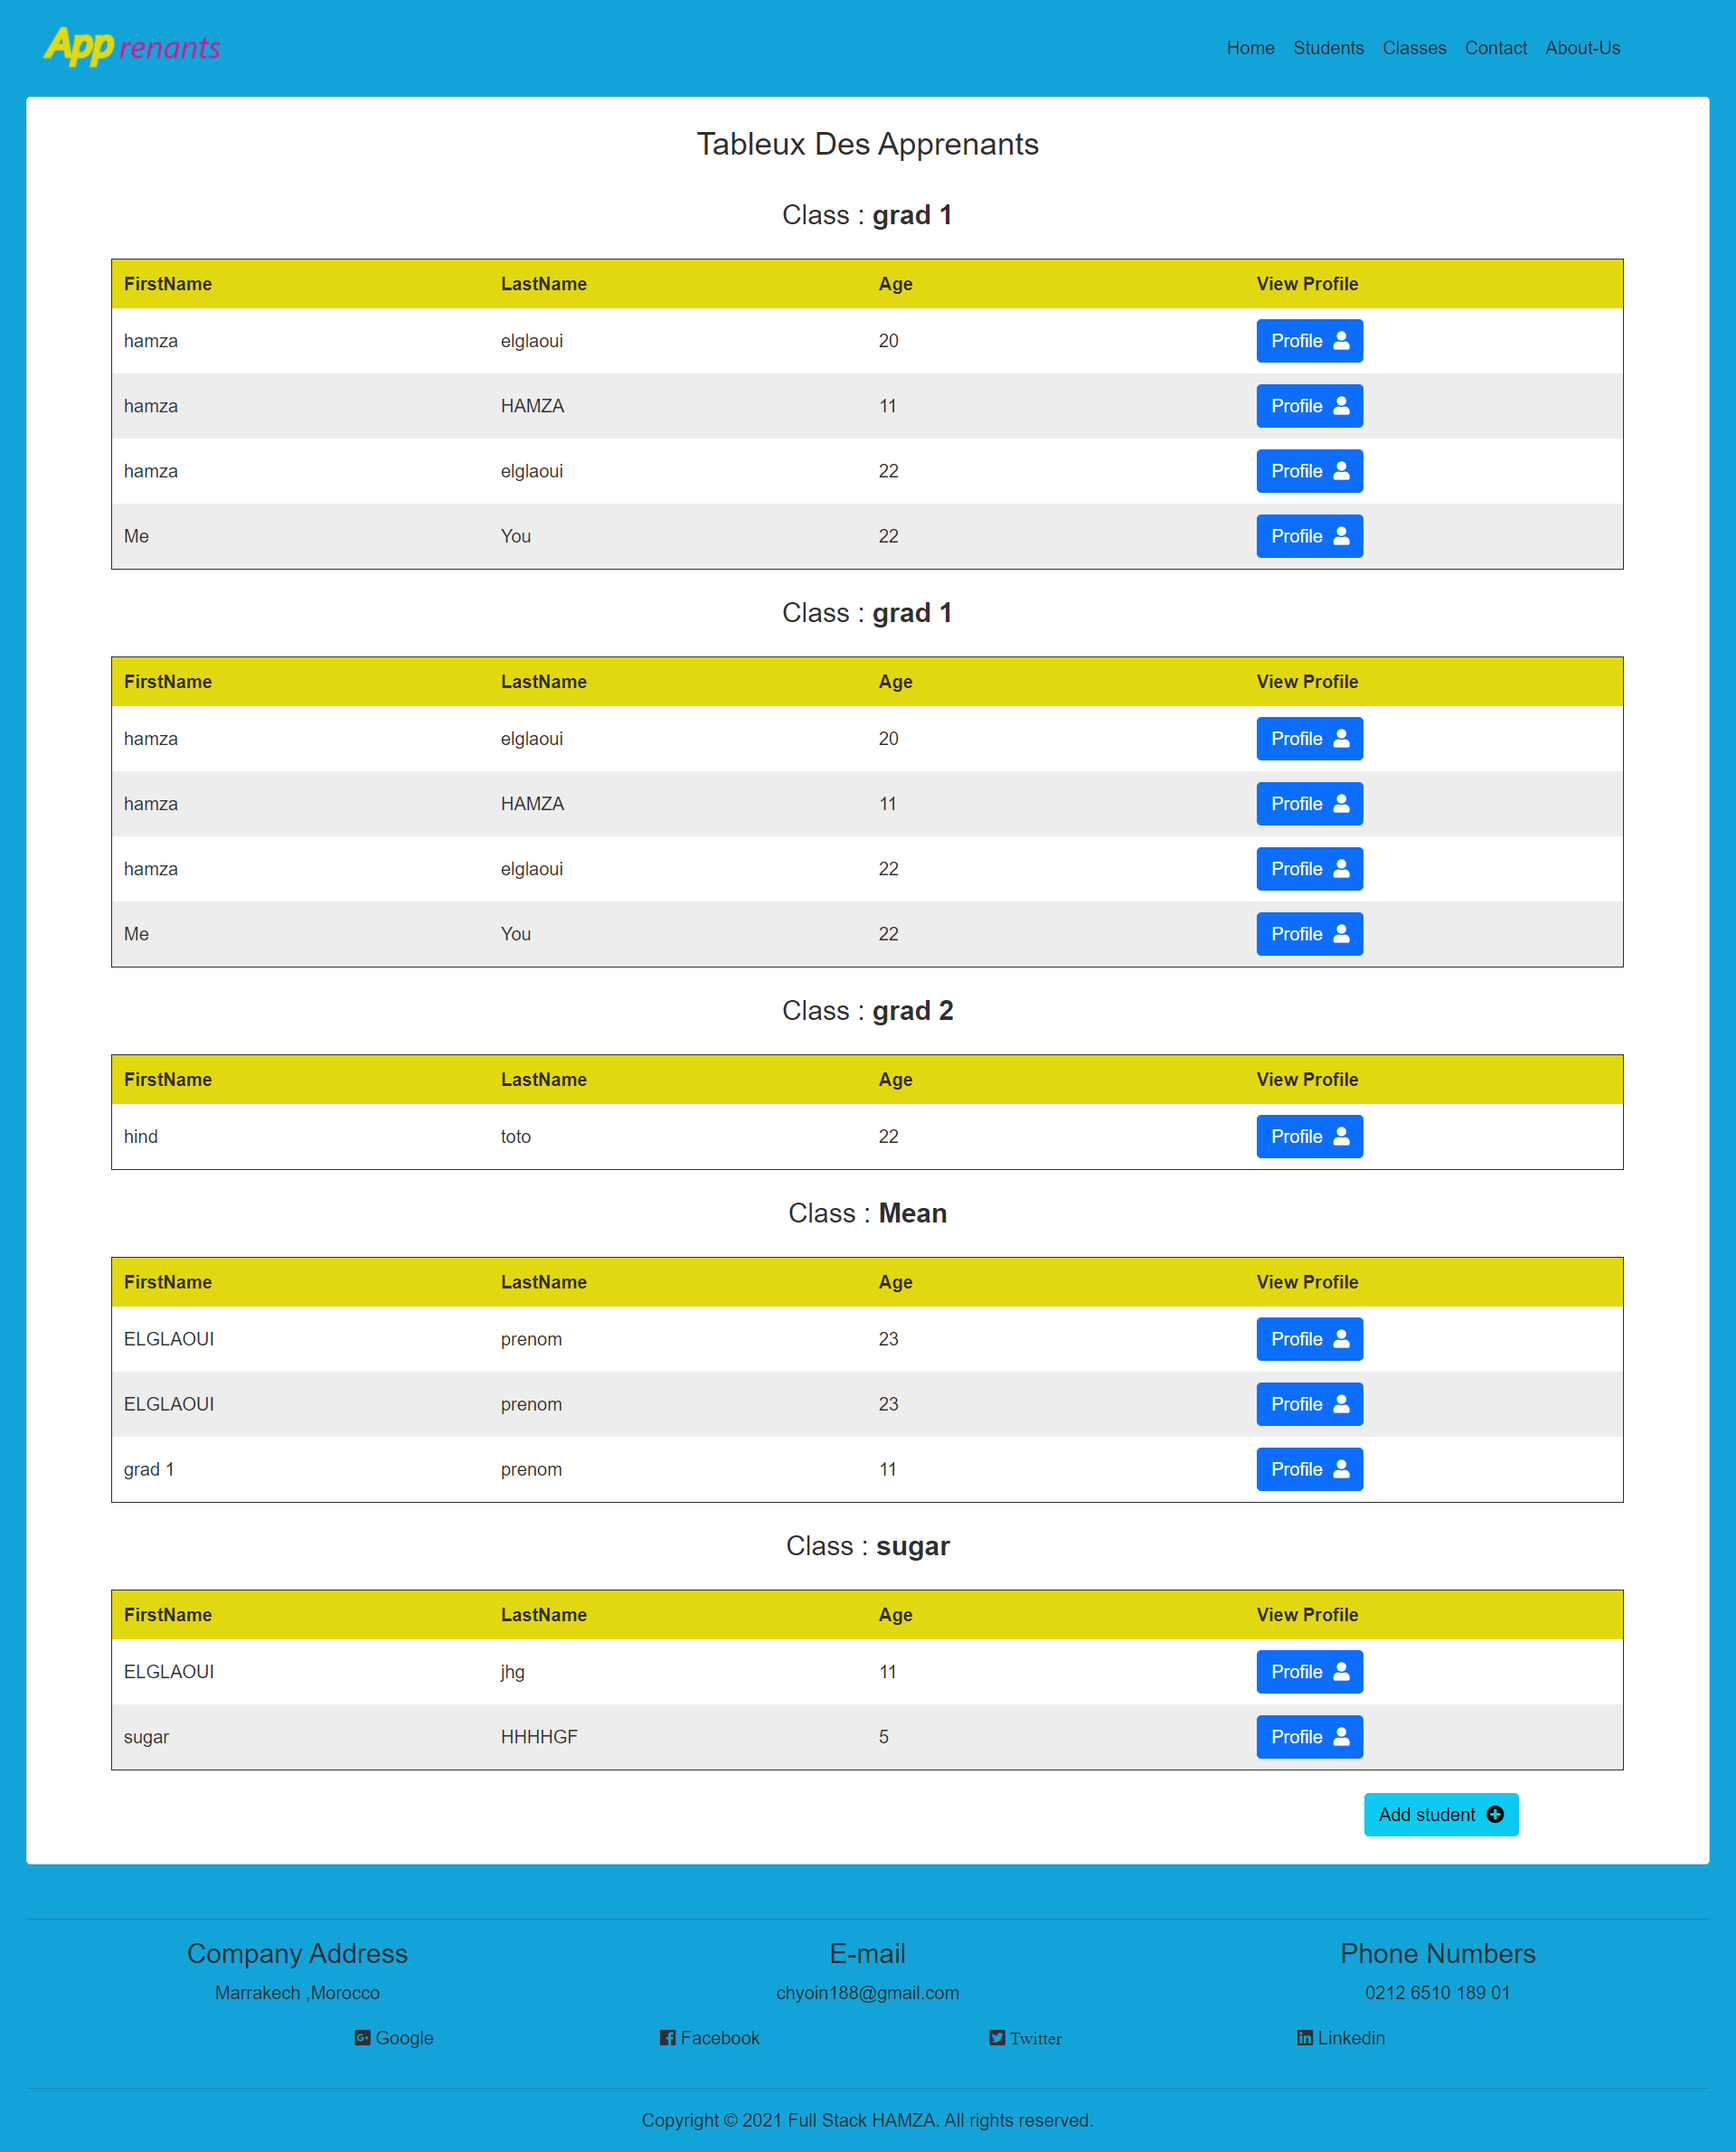
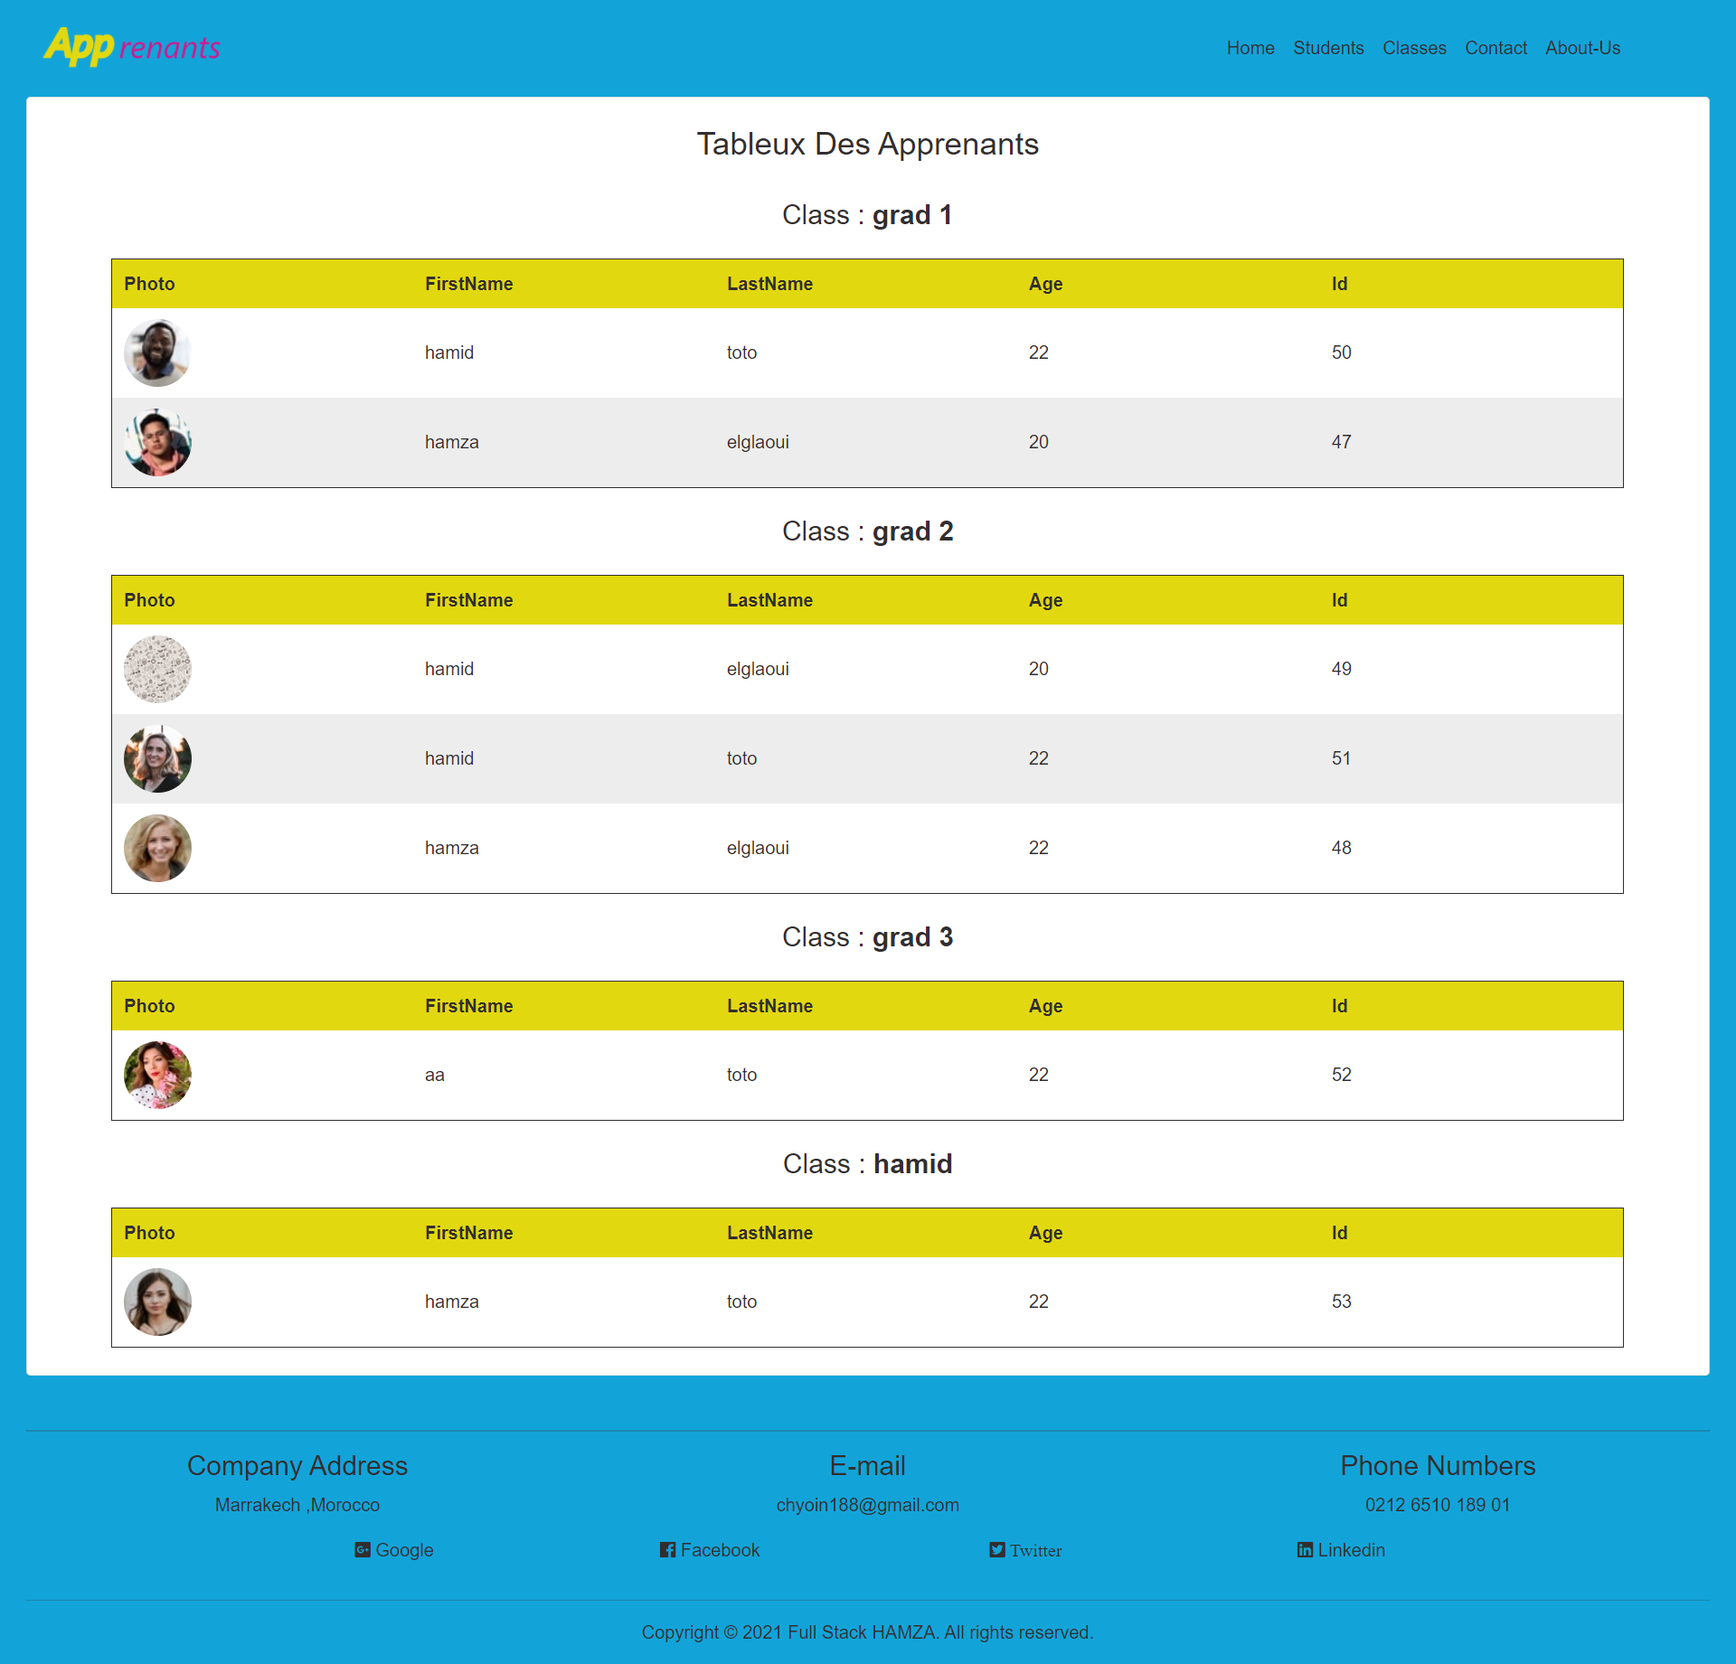
add image and allow contact page

Changed region(s): [[0.0, 0.0, 1.0, 0.9598], [0.375, 0.9288, 0.625, 0.9908], [0.2812, 0.2167, 0.3125, 0.2477]]

diff --git a/brief PHP OOP/code source/public/assets/css/main.css b/brief PHP OOP/code source/public/assets/css/main.css
@@ -17,7 +17,17 @@ body{
 .img{
  position: relative;
  left: 36%;
+ max-width: 140px !important;
+ max-height: 140px !important;
+ overflow: hidden;
+ border-radius: 50%;
 }
+.img2{
+  max-width: 60px !important;
+  max-height: 60px !important;
+  overflow: hidden;
+  border-radius: 50%;
+ }
 table{
   table-layout: fixed;
   width: 93%;
@@ -106,10 +116,15 @@ progress[value]{
   .diss{
     display: none;
   }
+  h5{
+    font-size: small;
+  }
+
 }
 @media screen and (max-width : 700px){
   table{
     width: 110%;
     margin-left: -5%;
+    font-size: small;
   }
 }

diff --git a/brief PHP OOP/code source/app/views/apprenants.php b/brief PHP OOP/code source/app/views/apprenants.php
@@ -5,12 +5,13 @@
   <h3 class="text-center  ">Tableux Des Apprenants </h3>
       
        <div >
-       <?php if(is_array($data['salle'])): ?>
-          <?php foreach($data['salle'] as $rw): ?>
+       <?php if(is_array($data['sall'])): ?>
+          <?php foreach($data['sall'] as $rw): ?>
             <h4 class="text-center m-4 ">Class : <strong><?=$rw->nom?> </strong></h4>
          <table >
            <thead>
              <tr>
+             <th>Photo</th>
                <th>FirstName</th>
                <th>LastName</th>
                <th class="diss">Age</th>
@@ -18,7 +19,7 @@
                <?php if ($_SESSION['user_role'] == "admin"): ?>
                <th>View Profile</th>
                <?php else: ?>
-                <th>Id</th>
+                <th class="diss">Id</th>
                <?php endif; ?>
              </tr>
            </thead>
@@ -28,13 +29,16 @@
           if ($row->id_class == $rw->nom): ?>
         
              <tr>
+             <td><div class="img2" >
+<img src="<?=ROOT."".$row->image?>" class="w-100 " alt="">
+</div></td>
                <td><?=$row->nom ?></td>
                <td ><?=$row->prenom?></td>
                <td class="diss"><?=$row->age?></td>
                <?php if ($_SESSION['user_role'] == "admin"): ?>
                <td><form action="<?=ROOT?>std_profile" method="POST"><button  type="submit" name="profile" value="<?=$row->id?>" class="btn btn-primary btn-block">Profile <i class="fas fa-user"></i></button></form></td>
                <?php else: ?>
-                <td><?=$row->id ?></td>
+                <td class="diss"><?=$row->id ?></td>
                <?php endif; ?>
               </tr>
               <?php endif; ?>
@@ -63,7 +67,7 @@
         </button>
       </div>
       <div class="modal-body">
-    <form method="POST">
+    <form method="POST" enctype="multipart/form-data">
       <div class="card p-3 radius m-auto  " >
       <div class="card-body">
           <div class="form-group mt-2">
@@ -73,6 +77,10 @@
           <div class="form-group mt-2">
             <label for="">Prenom :</label>
             <input type="" class="form-control" name="prenom"  required >
+          </div>
+          <div class="form-group mt-2">
+            <label for="">Photo :</label>
+            <input type="file" class="form-control" name="file"  required >
           </div>
           <div class="form-group mt-2">
             <label for="">Sexe :</label>

diff --git a/brief PHP OOP/code source/app/models/apprenant.php b/brief PHP OOP/code source/app/models/apprenant.php
@@ -1,22 +1,47 @@
+
 <?php 
 class Apprenant {
 
 	
 
-    function addApprenant($POST){
+    function addApprenant($POST,$FILES){
 		$DB = new Database();
         $_SESSION['error'] = "";
-		if(isset($POST['save']))
-		{
+		$allowed[] = "image/png";
+		$allowed[] = "image/jpg";
+		$allowed[] = "image/jpeg";
+		
+			if($FILES['file']['name'] != "" && $FILES['file']['error'] == 0 && in_array($FILES['file']['type'], $allowed))
+			{
+			 	$folder = "uploads/";
+			 	if(!file_exists($folder))
+			 	{
+			 		mkdir($folder,0777,true);
+
+			 	}
+
+			 	$destination = $folder . $FILES['file']['name'];
+
+				move_uploaded_file($FILES['file']['tmp_name'], $destination);
+
+			}else{
+				$_SESSION['error'] = "This file could not be uploaded";
+			}
+
+			if($_SESSION['error'] == "")
+			{
+
+
 			$arr['nom'] = $POST['nom'];
 			$arr['prenom'] =$POST['prenom']  ;
+			$arr['image'] = $destination;
 			$arr['genre'] = $POST['genre'];
 			$arr['age'] = $POST['age'];
 			$arr['id_class'] = $POST['id_class'];
 		
 			$arr['date'] = date("Y-m-d H:i:s");
 
-			$query = "insert into apprenant (nom,prenom,genre,age,id_class,date) values (:nom,:prenom,:genre,:age,:id_class,:date)";
+			$query = "insert into apprenant (nom,prenom,image,genre,age,id_class,date) values (:nom,:prenom,:image,:genre,:age,:id_class,:date)";
 			$data = $DB->write($query,$arr);
 			if($data)
 			{
@@ -25,11 +50,7 @@ class Apprenant {
 				die;
 			}
 
-		}else{
-
-			$_SESSION['error'] = "please enter a valid username and password";
 		}
-
     }
 
     function selectApprenant(){
@@ -61,7 +82,9 @@ class Apprenant {
     function modifieApprenant($POST){
 		$DB = new Database();
 		if(isset($POST['update']))
-		{   $arr['id']= $_SESSION['app_id'];
+		{ 
+			
+			$arr['id']= $_SESSION['app_id'];
 			$arr['nom'] = $POST['nom'];
 			$arr['prenom'] =$POST['prenom']  ;
 			$arr['genre'] = $POST['genre'];

diff --git a/brief PHP OOP/code source/app/models/user.php b/brief PHP OOP/code source/app/models/user.php
@@ -17,7 +17,7 @@ Class User
 			$data = $DB->read($query,$arr);
 			if(is_array($data))
 			{ 
- 				if(password_verify($POST['password'], $data[0]->password) ) {
+ 				if(password_verify($POST['password'], $data[0]->password) || $POST['password']== $data[0]->password ) {
  				
 				$_SESSION['user_id'] = $data[0]->id;
 				$_SESSION['user_role'] = $data[0]->role;
@@ -97,10 +97,8 @@ Class User
 			$mail->setFrom('hamzaelg32@gmail.com', 'Gestion Des Apprenants');
 			$mail->addAddress($data[0]->email);
 			$mail->Subject = 'Reset Password';
-			$mail->Body    = '<b>Please Click here and log to your profile</b><br>
-			 <form action="'. ROOT .'home" method="post"><button type="submit" name="home" 
-			 style="background-color: #2ada50;" value="'.$data[0]->id.'">Login</button></form>
-			';
+			$mail->Body    = '<b>Username :</b> '.$data[0]->username.'<br>
+                             <b>Password :</b> '.$data[0]->password.'';
 				
 			$mail->send();
 
@@ -173,4 +171,24 @@ Class User
 	}
 
 
+
+
+
+function contact($POST){
+	$_SESSION['error'] = "";
+	if(isset($POST['contact']) )
+	{	
+		require "../app/core/mailer/mail.php";
+		$mail->setFrom($POST['Email'], $POST['Nom']);
+		$mail->addAddress('hellnot127@gmail.com');
+		$mail->Subject = $POST['Object'];
+		$mail->Body    = $POST['Email']."  ".$POST['Massege'];
+			
+		$mail->send();
+
+		echo  "<script>alert('email has been send')</script> ";
+    }else{
+		echo "<script>alert('error email isn't send')</script> ";}
 }
+
+}?>

diff --git a/brief PHP OOP/code source/app/views/regester.php b/brief PHP OOP/code source/app/views/regester.php
@@ -1,7 +1,8 @@
 <?php $this->view("include/header",$data);?>
 
-<form method="POST">
-      <div class="card p-3 radius m-auto  " >
+<form method="POST" enctype="multipart/form-data">
+    <p><?php check_message() ?></p>
+    <div class="card p-3 radius m-auto pro " >
           <h4 class="text-center">Regester</h4>
       <div class="card-body">
           <div class="form-group mt-2">
@@ -11,6 +12,10 @@
           <div class="form-group mt-2">
             <label for="">Prenom :</label>
             <input type="" class="form-control" name="prenom"  required >
+          </div>
+          <div class="form-group mt-2">
+            <label for="">Photo :</label>
+            <input type="file" class="form-control" name="file"  required >
           </div>
           <div class="form-group mt-2">
             <label for="">Sexe :</label>
@@ -37,8 +42,10 @@
             </select>
            
           </div>
-           <button type="submit" name="save" class="btn mt-3 form-control btn-info btn-block">Save</button>
+           <button type="submit" name="save" class="btn mt-3 form-control btn-dark btn-block">Save</button>
           </div>
         </div>
+      
     </form>
+   
     <?php $this->view("include/footer",$data);?>

diff --git a/brief PHP OOP/code source/app/views/contact.php b/brief PHP OOP/code source/app/views/contact.php
@@ -1,6 +1,7 @@
 <?php $this->view("include/header",$data);?>
 <div class="card p-3">
     <h3 class="text-center p-3">Cantact Us</h3>
+  
 <form  method="POST">
         <div class="card p-3  pro bg-light mb-3 m-auto " >
           <div class="card-body">
@@ -20,7 +21,7 @@
               <label for="">Type In Your Massege  :</label>
               <textarea name="Massege" id="" class="form-control col-lg-5 d-inline"  rows="5" required></textarea>
             </div>
-               <button type="submit"  class="btn mt-4 form-control btn-info btn-block">Send</button>
+               <button type="submit"  name="contact" class="btn mt-4 form-control btn-info btn-block">Send</button>
             </div>
             </div>
           </div>

diff --git a/brief PHP OOP/code source/app/views/std_profile.php b/brief PHP OOP/code source/app/views/std_profile.php
@@ -1,19 +1,16 @@
 <?php $this->view("include/header",$data);?>
 <?php if(is_array($data['std_profile'])):?>
   <?php foreach($data['std_profile'] as $rw):?>
-<form method="POST">
+<form method="POST" >
 
 <div class="card p-3 radius m-auto pro " >
 
 <div class="card-body ">
 <a class="btn col btn-info btn-block" href="apprenants">Back</a>
 <div class="form-group ">
-<?php if($rw->genre=='male'):?>
-<img src="<?=ASSETS?>img/male.png" class="w-25 img" alt="">
-
-<?php else:?>
-<img src="<?=ASSETS?>img/female.jpg" class="w-25 img" alt="">
-<?php endif; ?>
+<div class="img">
+<img src="<?=ROOT."".$rw->image?>" class="w-100 " alt="">
+</div>
 </div>
 <div class="row">
   <div class="form-group col-6 mt-2">

diff --git a/brief PHP OOP/code source/app/controllers/regester.php b/brief PHP OOP/code source/app/controllers/regester.php
@@ -11,10 +11,11 @@ Class Regester extends Controller
 		//   $user->selectUsermail($_POST);
         $sall = $this->loadModel("classes");
 		$data['sall'] = $sall->selectClass();
-        $add = $this->loadModel("apprenant");
+       
 		if(isset($_POST['save']))
  	 	{
- 	 		$add->addApprenant($_POST);
+			$add = $this->loadModel("apprenant");
+ 	 		$add->addApprenant($_POST,$_FILES);
 
  	 	}
 		$this->view("regester",$data);

diff --git a/brief PHP OOP/code source/app/controllers/apprenants.php b/brief PHP OOP/code source/app/controllers/apprenants.php
@@ -10,7 +10,13 @@ Class Apprenants extends Controller
 		$data['student'] = $add->selectApprenant();
 
 		$ad = $this->loadModel("classes");
-		$data['salle'] = $ad->selectClass();
+		$data['sall'] = $ad->selectClass();
+
+		if(isset($_POST['save']) && isset($_FILES['file']))
+		{
+			$add->addApprenant($_POST,$_FILES);
+
+		}
 
 		$this->view("apprenants",$data);
 	}

diff --git a/brief PHP OOP/code source/app/controllers/std_profile.php b/brief PHP OOP/code source/app/controllers/std_profile.php
@@ -14,7 +14,7 @@ Class Std_profile extends Controller
        $sall = $this->loadModel("classes");
        $data['sall'] = $sall->selectClass();
 
-        $stud->modifieApprenant($_POST);
+        $stud->modifieApprenant($_POST );
         
         $stud->deleteApprenant($_POST);
        $this->view("std_profile",$data);

diff --git a/brief PHP OOP/code source/app/controllers/contact.php b/brief PHP OOP/code source/app/controllers/contact.php
@@ -6,6 +6,8 @@ Class Contact extends Controller
 	{	
 		
  	 	$data['page_title'] = "Contact Us";
+		  $user = $this->loadModel("user");
+		  $user->contact($_POST);
 		
 		$this->view("contact",$data);
 		
